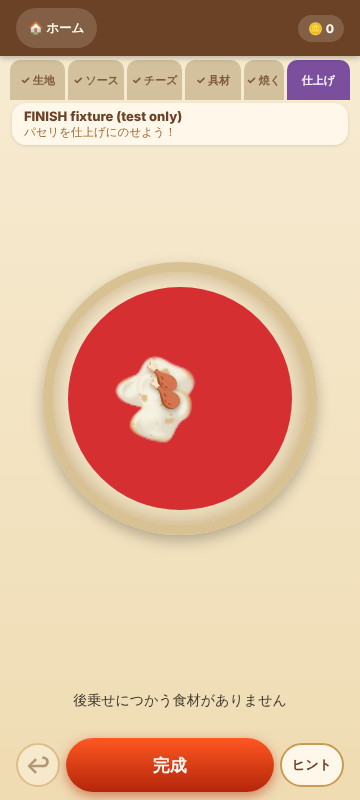
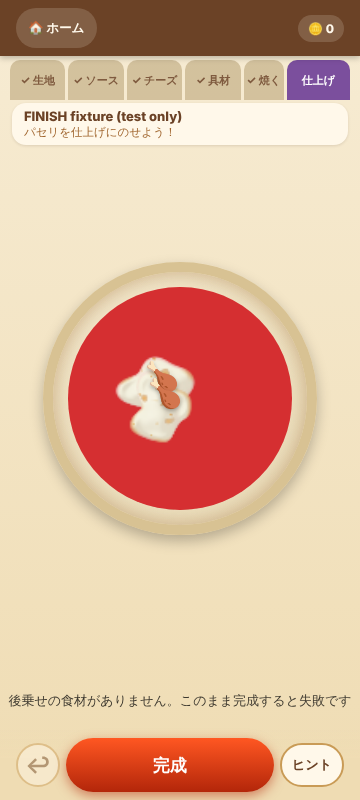
fix(finish): FIN-C — 独立レビュー対応（完成の ref ガード撤去・説明文に失敗の注意・コメント整理）
Claude-Session: https://claude.ai/code/session_01LGTHMj27m7zrcRHCbGXAM1

Changed region(s): [[0.1833, 0.8438, 0.7944, 0.9062], [0.0306, 0.8438, 0.1222, 0.9062], [0.8556, 0.875, 0.8861, 0.9062]]

diff --git a/src/screens/GameScreen.tsx b/src/screens/GameScreen.tsx
@@ -388,13 +388,10 @@ export function GameScreen({
     onUndoPlacement();
   }
 
-  // FINISH FIN-C: 完成 leaves FINISH through the existing CONFIRM_MAKING_STEP (the FINAL evaluation, the one inventory
-  // consumption). The reducer is the backstop (bakeValue is cleared and the step is left in the same transition, so a
-  // repeat cannot consume twice); this guard additionally drops a second press of the same step before it re-renders.
-  const finishCompletedTokenRef = useRef<number | null>(null);
+  // FINISH FIN-C: 完成 leaves FINISH through the existing CONFIRM_MAKING_STEP (the FINAL evaluation and the one inventory
+  // consumption). The reducer is the backstop for a repeated press: `bakeValue` is cleared and the step is left in the same
+  // transition, so a second dispatch hits its phase / step guards and consumes nothing. The reset token aborts any gesture in flight.
   function handleCompleteFinish() {
-    if (finishCompletedTokenRef.current === state.makingStepToken) return;
-    finishCompletedTokenRef.current = state.makingStepToken;
     setPizzaResetToken((token) => token + 1);
     onConfirmMakingStep();
   }
@@ -517,16 +514,17 @@ export function GameScreen({
   const isFinishStep = postBakeStep === "FINISH";
   // FINISH FIN-B: FINISH carries the tray, so its stage is the compact one (PREPARE's), not CUT's roomy one.
   const roomyStage = state.phase === "BAKE" || (postBakeStepRendered && !isFinishStep);
-  const finishTrayCount = isFinishStep ? finishTrayIngredients(state.recipe, state.ownedIngredientIds).length : 0;
+  const finishTray = isFinishStep ? finishTrayIngredients(state.recipe, state.ownedIngredientIds) : [];
+  const finishTrayCount = finishTray.length;
 
   // FIN-B carry-over: once the stock of the selected late ingredient is used up (or after an ingredient that FINISH does
   // not offer was left selected), release the selection so a tap on the pizza cannot act on a disabled chip.
   useEffect(() => {
     if (!isFinishStep || selectedIngredientId === null) return;
     const ingredient = getIngredient(selectedIngredientId);
-    const offered = finishTrayIngredients(state.recipe, state.ownedIngredientIds).some((i) => i.id === selectedIngredientId);
+    const offered = finishTray.some((i) => i.id === selectedIngredientId);
     if (!ingredient || !offered || !canPlacePostBakeIngredient(ingredient, state.inventory, state.pizza)) onClearIngredientSelection?.();
-  }, [isFinishStep, selectedIngredientId, state.recipe, state.ownedIngredientIds, state.inventory, state.pizza, onClearIngredientSelection]);
+  }, [isFinishStep, selectedIngredientId, finishTray, state.inventory, state.pizza, onClearIngredientSelection]);
 
   // Pizza Cutting 1.0 Phase 2 (design doc §8.4): mirrors `nextStepReady`'s own "UI-only
   // completion gate, reducer never assumes it" role for CUT's own "切り終わる" CTA -- the
@@ -941,8 +939,7 @@ export function GameScreen({
       )}
 
       {/* FINISH FIN-B: the tray + dock of the FINISH step, the PREPARE dock's structure reused. Only the recipe's late
-          ingredients are offered, placed by tap (select -> tap the pizza -> PLACE_TOPPING, stage "post"). No ↩ / 完成 here
-          (FIN-C). */}
+          ingredients are offered, placed by tap (select -> tap the pizza -> PLACE_TOPPING, stage "post"). The ↩ / 完成 bar is below (FIN-C). */}
       {isFinishStep && state.dinner === null && (
         <div
           className={`prepare-dock prepare-dock--finish${finishTrayCount > MAX_INGREDIENT_PALETTE_SLOTS ? "" : " prepare-dock--no-pager"}`}
@@ -956,23 +953,23 @@ export function GameScreen({
         >
           {finishTrayCount === 0 ? (
             <p className="finish-tray-empty" data-testid="finish-tray-empty">
-              後乗せにつかう食材がありません
+              後乗せの食材がありません。このまま完成すると失敗です
             </p>
           ) : (
-          <IngredientTray
-            activeCategory="topping"
-            selectedIngredientId={selectedIngredientId}
-            onSelectIngredient={onSelectIngredient}
-            onClearSelection={onClearIngredientSelection}
-            ownedIngredientIds={state.ownedIngredientIds}
-            recipe={state.recipe}
-            inventory={state.inventory}
-            pizza={state.pizza}
-            finish
-            resetToken={pizzaResetToken}
-            makingStepToken={state.makingStepToken}
-            reservePagerRow={false}
-          />
+            <IngredientTray
+              activeCategory="topping"
+              selectedIngredientId={selectedIngredientId}
+              onSelectIngredient={onSelectIngredient}
+              onClearSelection={onClearIngredientSelection}
+              ownedIngredientIds={state.ownedIngredientIds}
+              recipe={state.recipe}
+              inventory={state.inventory}
+              pizza={state.pizza}
+              finish
+              resetToken={pizzaResetToken}
+              makingStepToken={state.makingStepToken}
+              reservePagerRow={false}
+            />
           )}
         </div>
       )}

diff --git a/src/screens/GameScreen.finish.test.tsx b/src/screens/GameScreen.finish.test.tsx
@@ -381,7 +381,7 @@ describe("FINISH ↩ and 完成 (FIN-C)", () => {
   it("shows a one-line note instead of the tray when no late ingredient is owned", () => {
     const start = atFinish();
     const { container } = renderAt({ ...start, ownedIngredientIds: start.ownedIngredientIds.filter((id) => id !== "parsley") });
-    expect(screen.getByTestId("finish-tray-empty")).toHaveTextContent("後乗せにつかう食材がありません");
+    expect(screen.getByTestId("finish-tray-empty")).toHaveTextContent("後乗せの食材がありません。このまま完成すると失敗です");
     expect(container.querySelector(".ingredient-tray")).toBeNull();
     expect(screen.getByRole("button", { name: "完成" })).toBeEnabled();
   });

diff --git a/e2e/finish-bar-finc.spec.ts b/e2e/finish-bar-finc.spec.ts
@@ -127,7 +127,7 @@ test("完成 with the late pieces: RESULT reached, stock consumed exactly once e
 
 test("no late ingredient owned: the tray shows a one-line note, 完成 stays available, nothing overlaps", async ({ page }) => {
   await open(page, "owned=none");
-  await expect(page.getByTestId("finish-tray-empty")).toHaveText("後乗せにつかう食材がありません");
+  await expect(page.getByTestId("finish-tray-empty")).toHaveText("後乗せの食材がありません。このまま完成すると失敗です");
   await expect(page.locator(".ingredient-tray")).toHaveCount(0);
   const note = (await rect(page, '[data-testid="finish-tray-empty"]'))!;
   const bar = (await rect(page, '[data-testid="finish-bar"]'))!;

diff --git a/src/App.css b/src/App.css
@@ -8143,6 +8143,7 @@ p.hint-sheet__step {
   align-items: center;
   justify-content: center;
   text-align: center;
-  font-size: 14px;
+  font-size: 13px;
+  line-height: 1.4;
   opacity: 0.75;
 }
